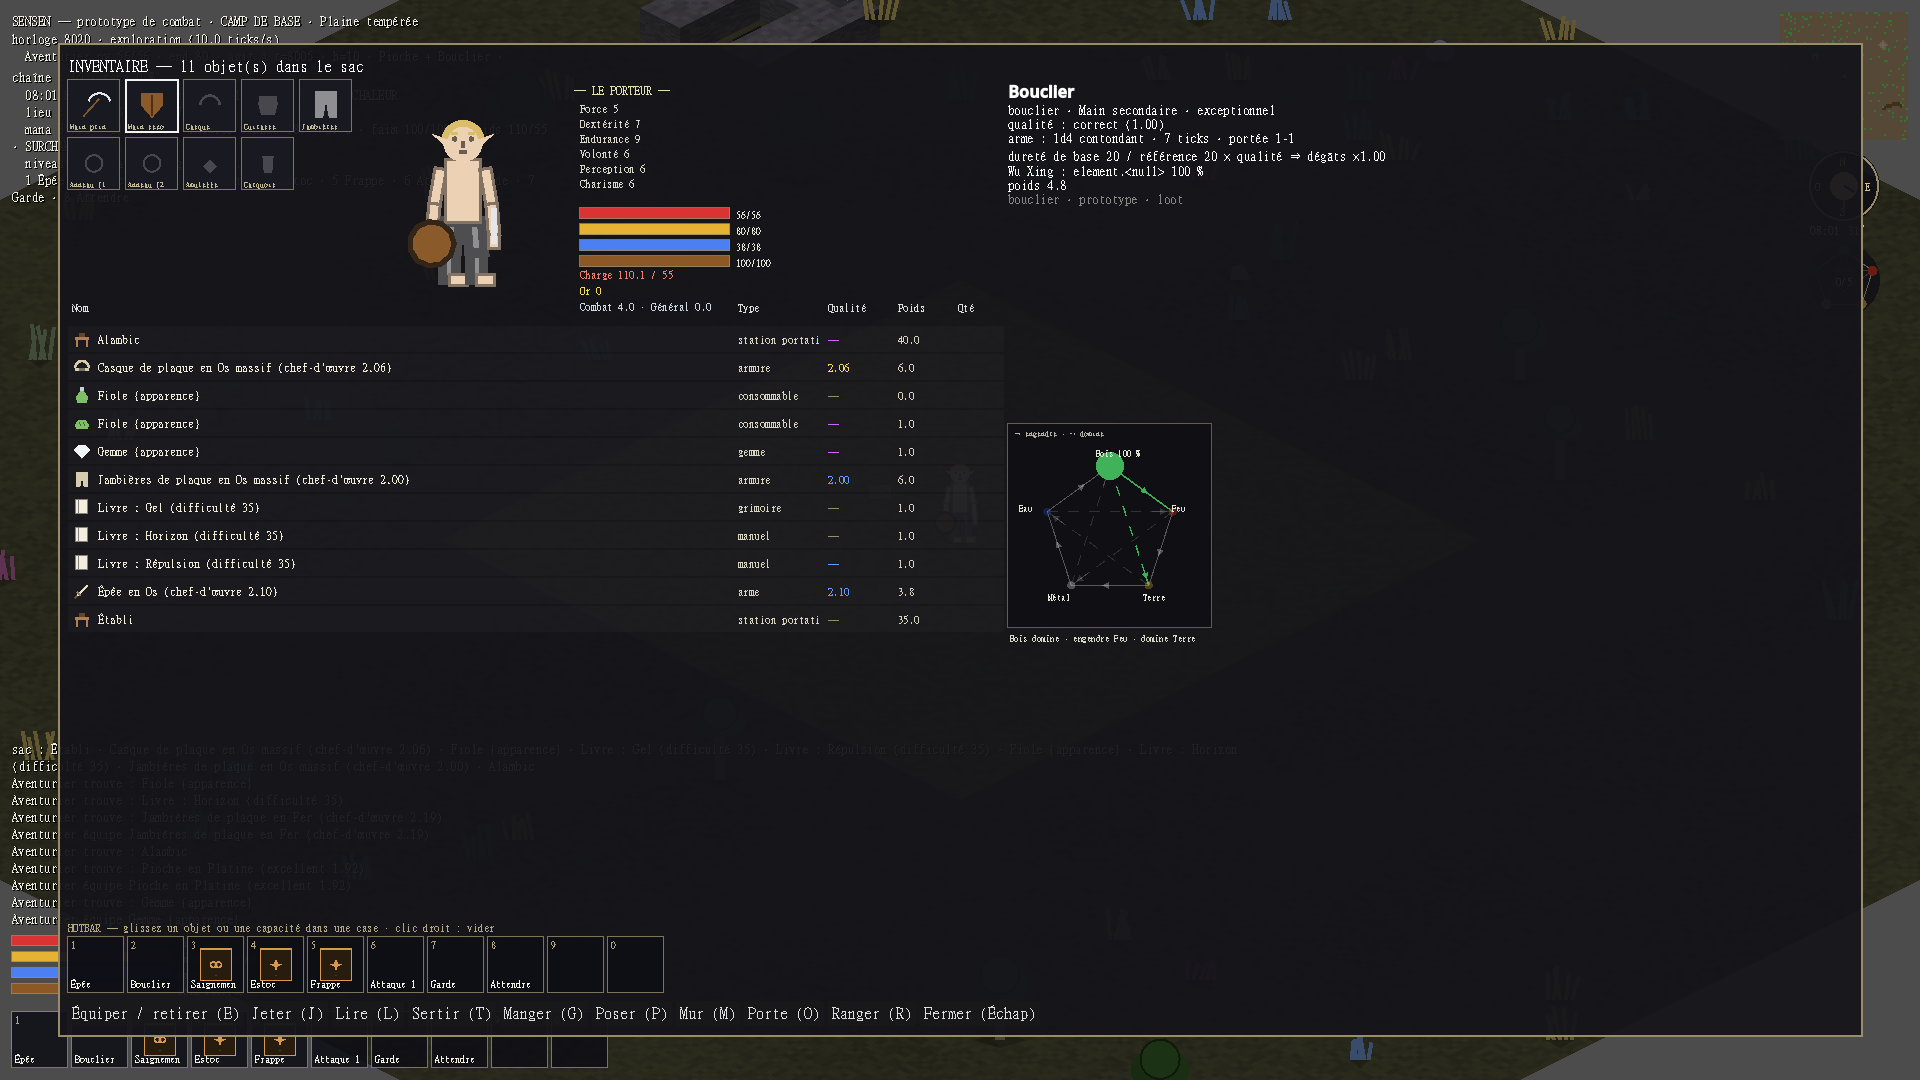
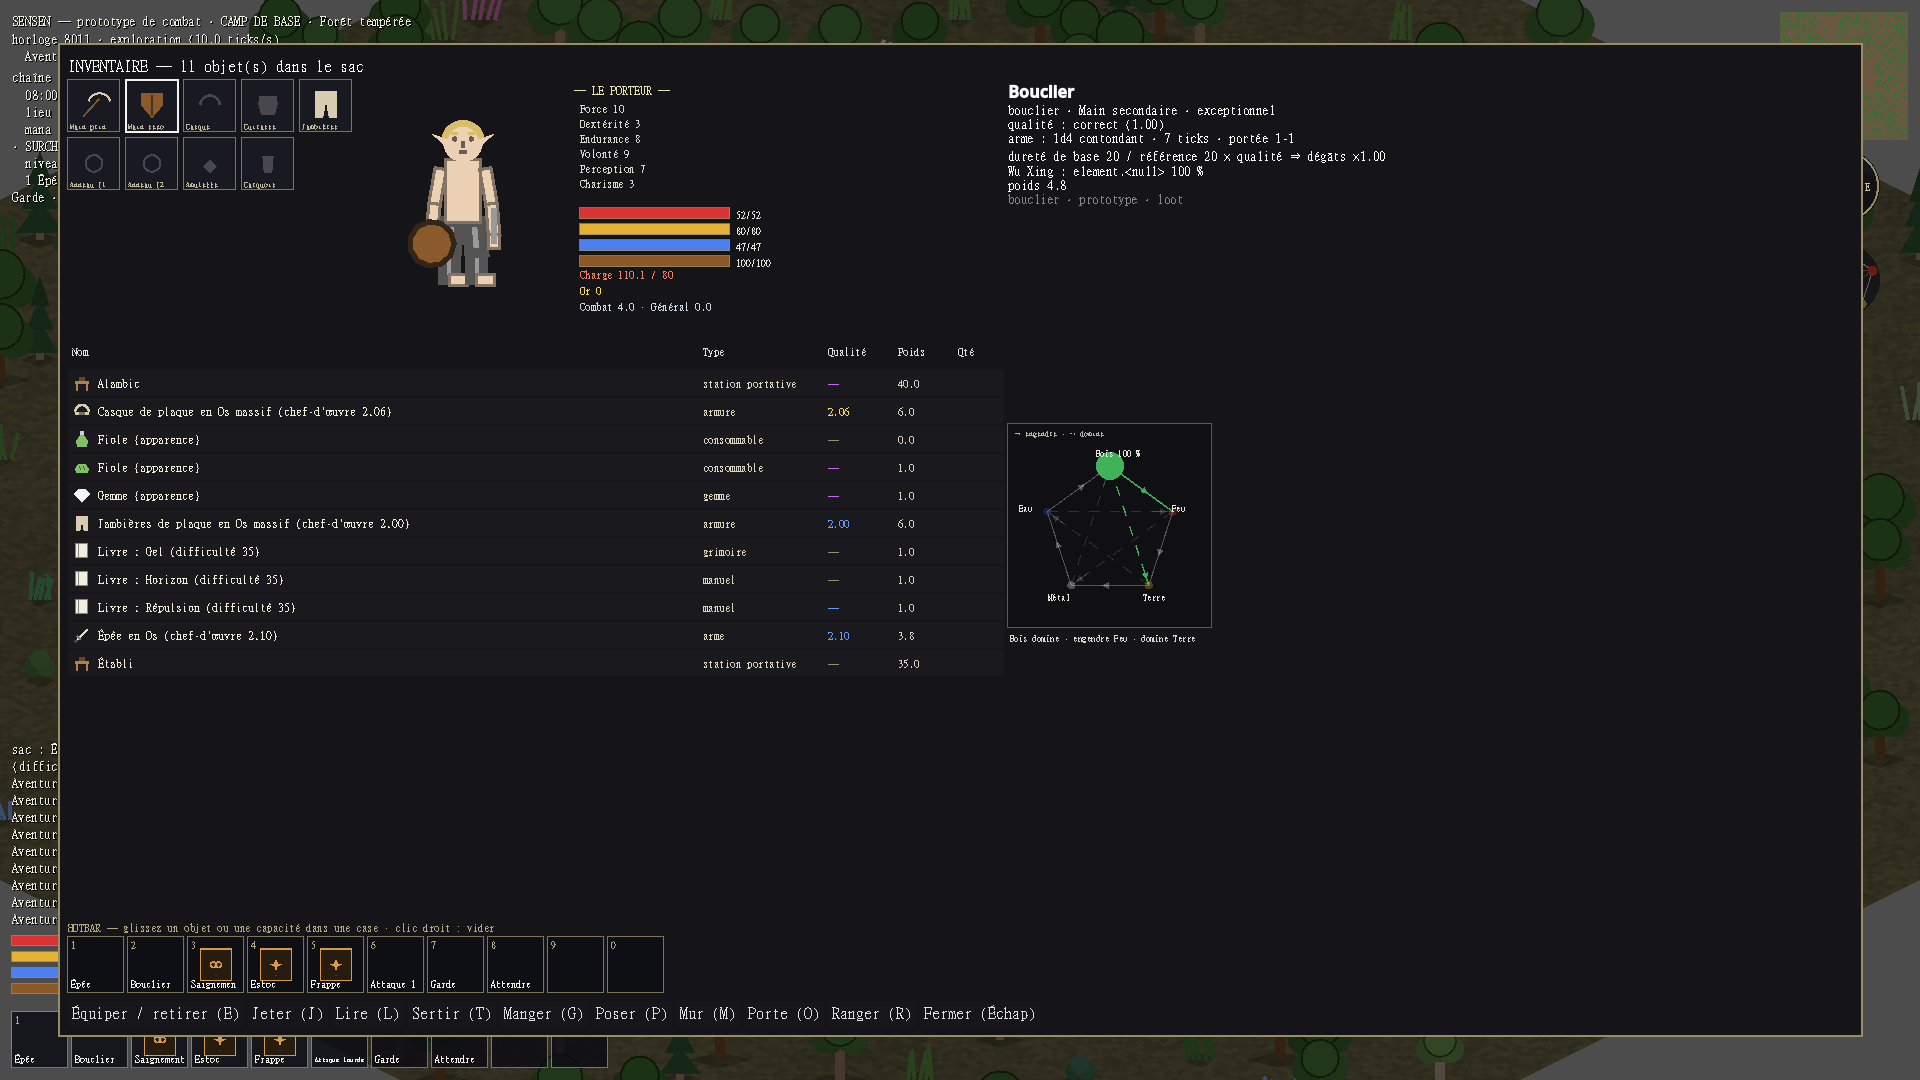
La fiche du porteur debordait de 36 px sur l'en-tete du sac
Ouvert en 1280x800, l'inventaire affichait « Type Combat 4.Qual(General
0.Qids Qte » : la fiche dessine 246 px (six stats, quatre jauges,
charge, or, niveaux) dans un cadre declare a 210. Sa hauteur se calcule
maintenant a partir des lignes dessinees, et le cadre est clip_contents.
Le fond du panneau passe a l'opaque (a 0,94 le decor transparaissait) et
la colonne Type passe a 125 px : « station portative » etait coupee.

diff --git a/docs/08 - Technique/Écrans d'interface.md b/docs/08 - Technique/Écrans d'interface.md
@@ -141,6 +141,10 @@ Inventaire+équipement (avec poids), Craft (recettes des stations à portée, [[
 > « fais en sorte que tous les menus et écrans se resize à la taille de la fenêtre pour que rien ne soit coupé ». Premier écran traité, le plus criant : la création. Le panneau prenait bien 94 % × 92 % de la fenêtre, mais **l'aperçu était posé en pixels fixes** — personnage à `(210, 300)` au facteur 5,4, portrait à `(340, 60)` sur 170 × 170, jauges à `y = 316` — dans un cadre haut de 380 px. Sur 1080 de haut, les deux tiers du bas restaient noirs ; sur une fenêtre courte, le personnage débordait. Le cadre **s'étire** désormais avec la colonne, et ses trois éléments se replacent à chaque redimensionnement selon des **proportions lues dans `styles.creation`** : le personnage est mis à l'échelle de la hauteur disponible (bornée), le portrait est un carré proportionnel, les jauges se calent sous le personnage. Rien n'est coupé, rien ne flotte.
 
 
+> [!bug] Corrigé le 2026-09-01 — la fiche du porteur débordait sur la liste du sac (point 67)
+> Deuxième écran du point 67, trouvé en ouvrant l'inventaire dans une fenêtre de 1280 × 800 : l'en-tête de la liste était **illisible**, « Type Combat 4.Qual(Général 0.Qids Qté ». La fiche du porteur (six stats, quatre jauges, charge, or, niveaux dérivés) dessine **246 pixels** de contenu dans un cadre déclaré à **210** : les trois dernières lignes tombaient par-dessus la ligne d'en-tête du sac. Sa hauteur minimale est désormais **calculée** à partir des lignes qu'elle dessine (`hauteur_requise()`, un seul endroit qui fait foi) et le cadre est `clip_contents` — un débordement ne peut plus mordre sur ce qui suit. Le fond du panneau passe aussi à l'opaque : à 0,94 le décor transparaissait sous les lignes du sac.
+
+
 ## Liens
 - **Dépend de** : [[Direction artistique]], [[Localisation]]
 - **Alimente** : [[Combat tactique sur grille]], [[Craft compositionnel]], [[Habitat des PNJ]], [[Entretien et taxes]]
